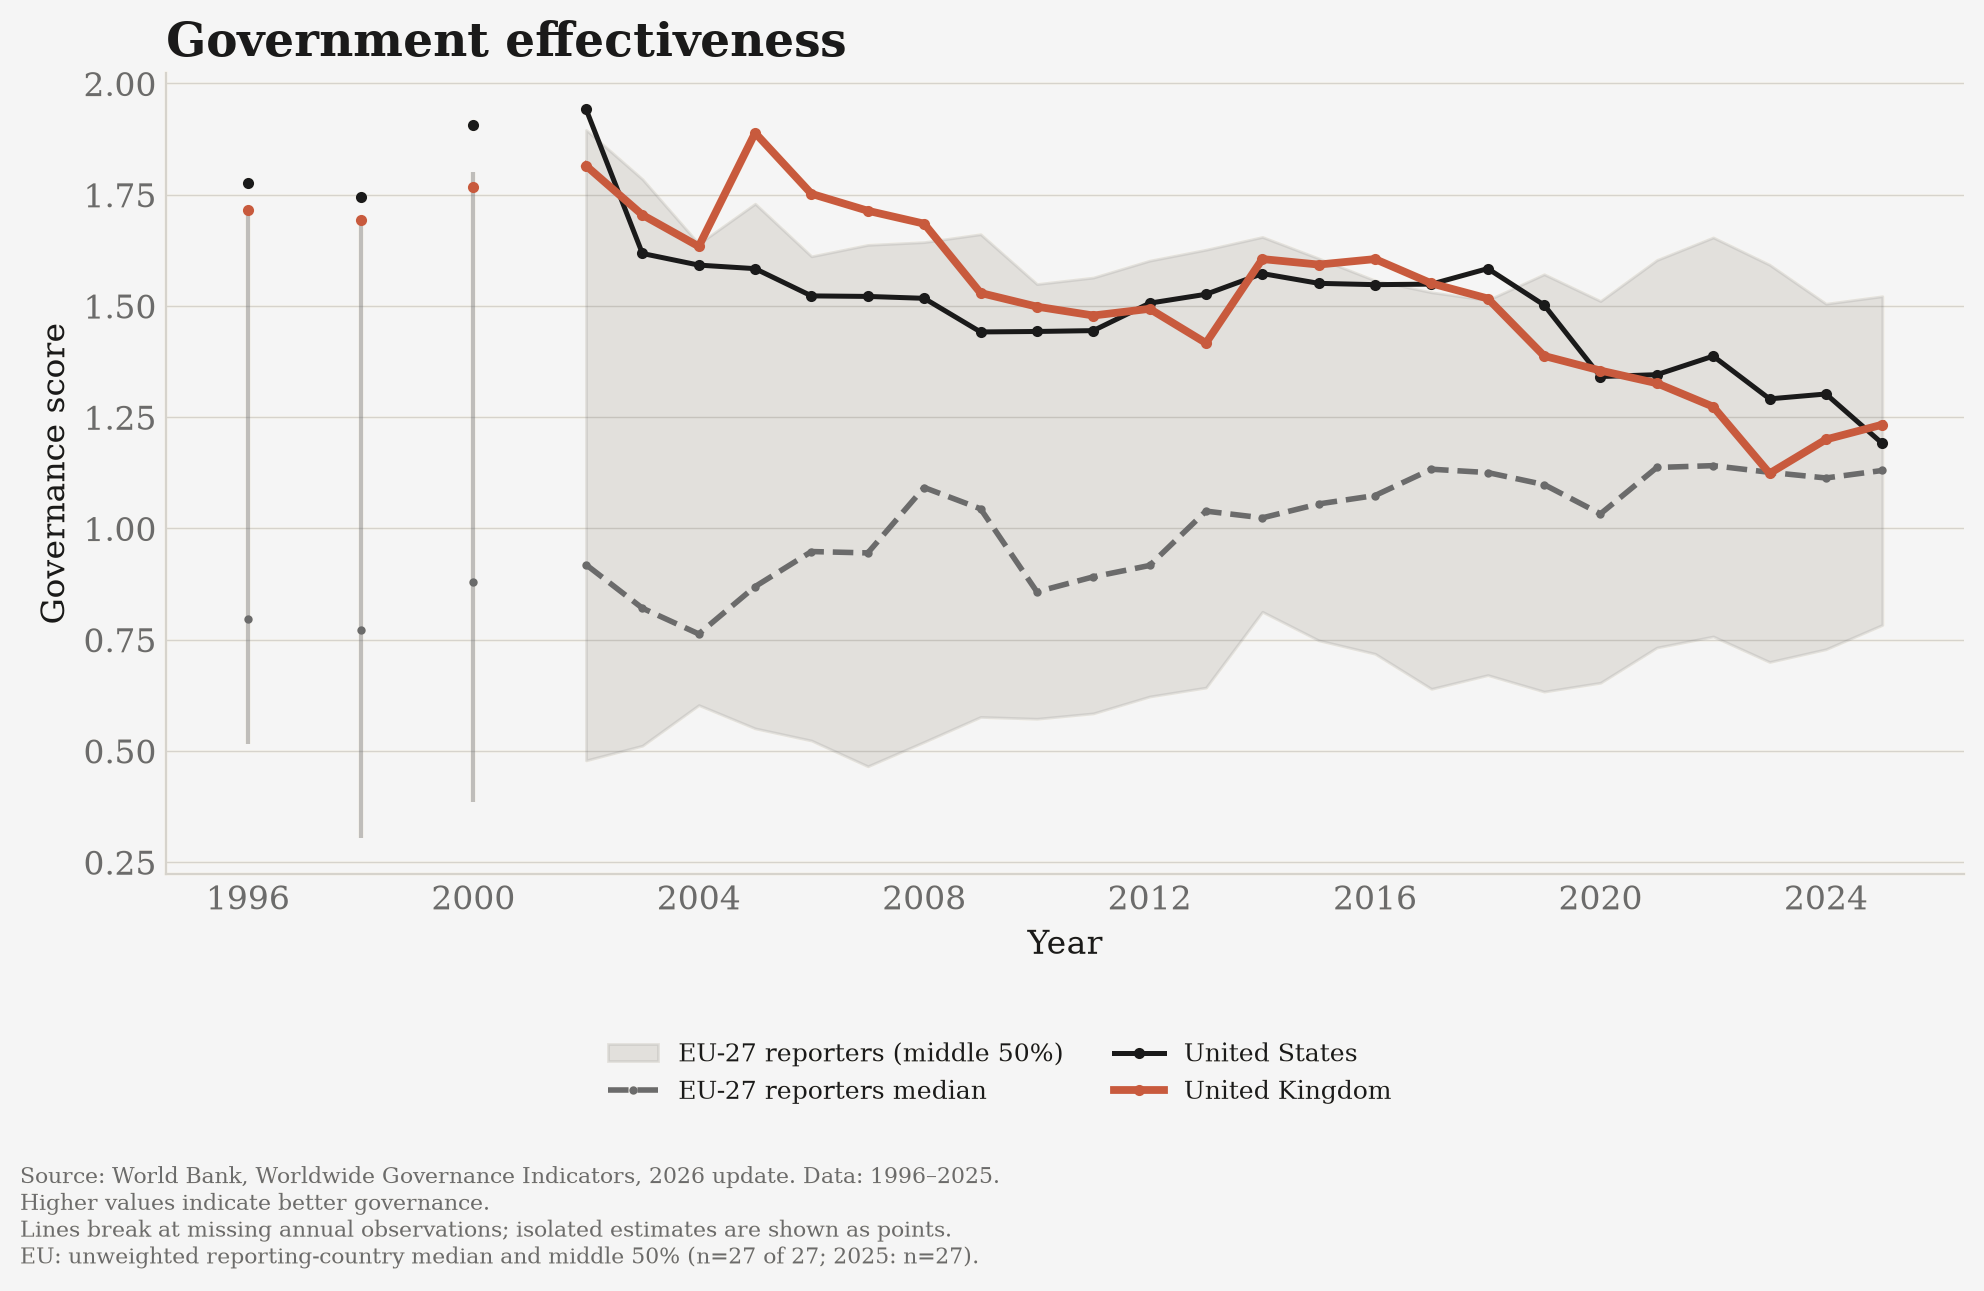
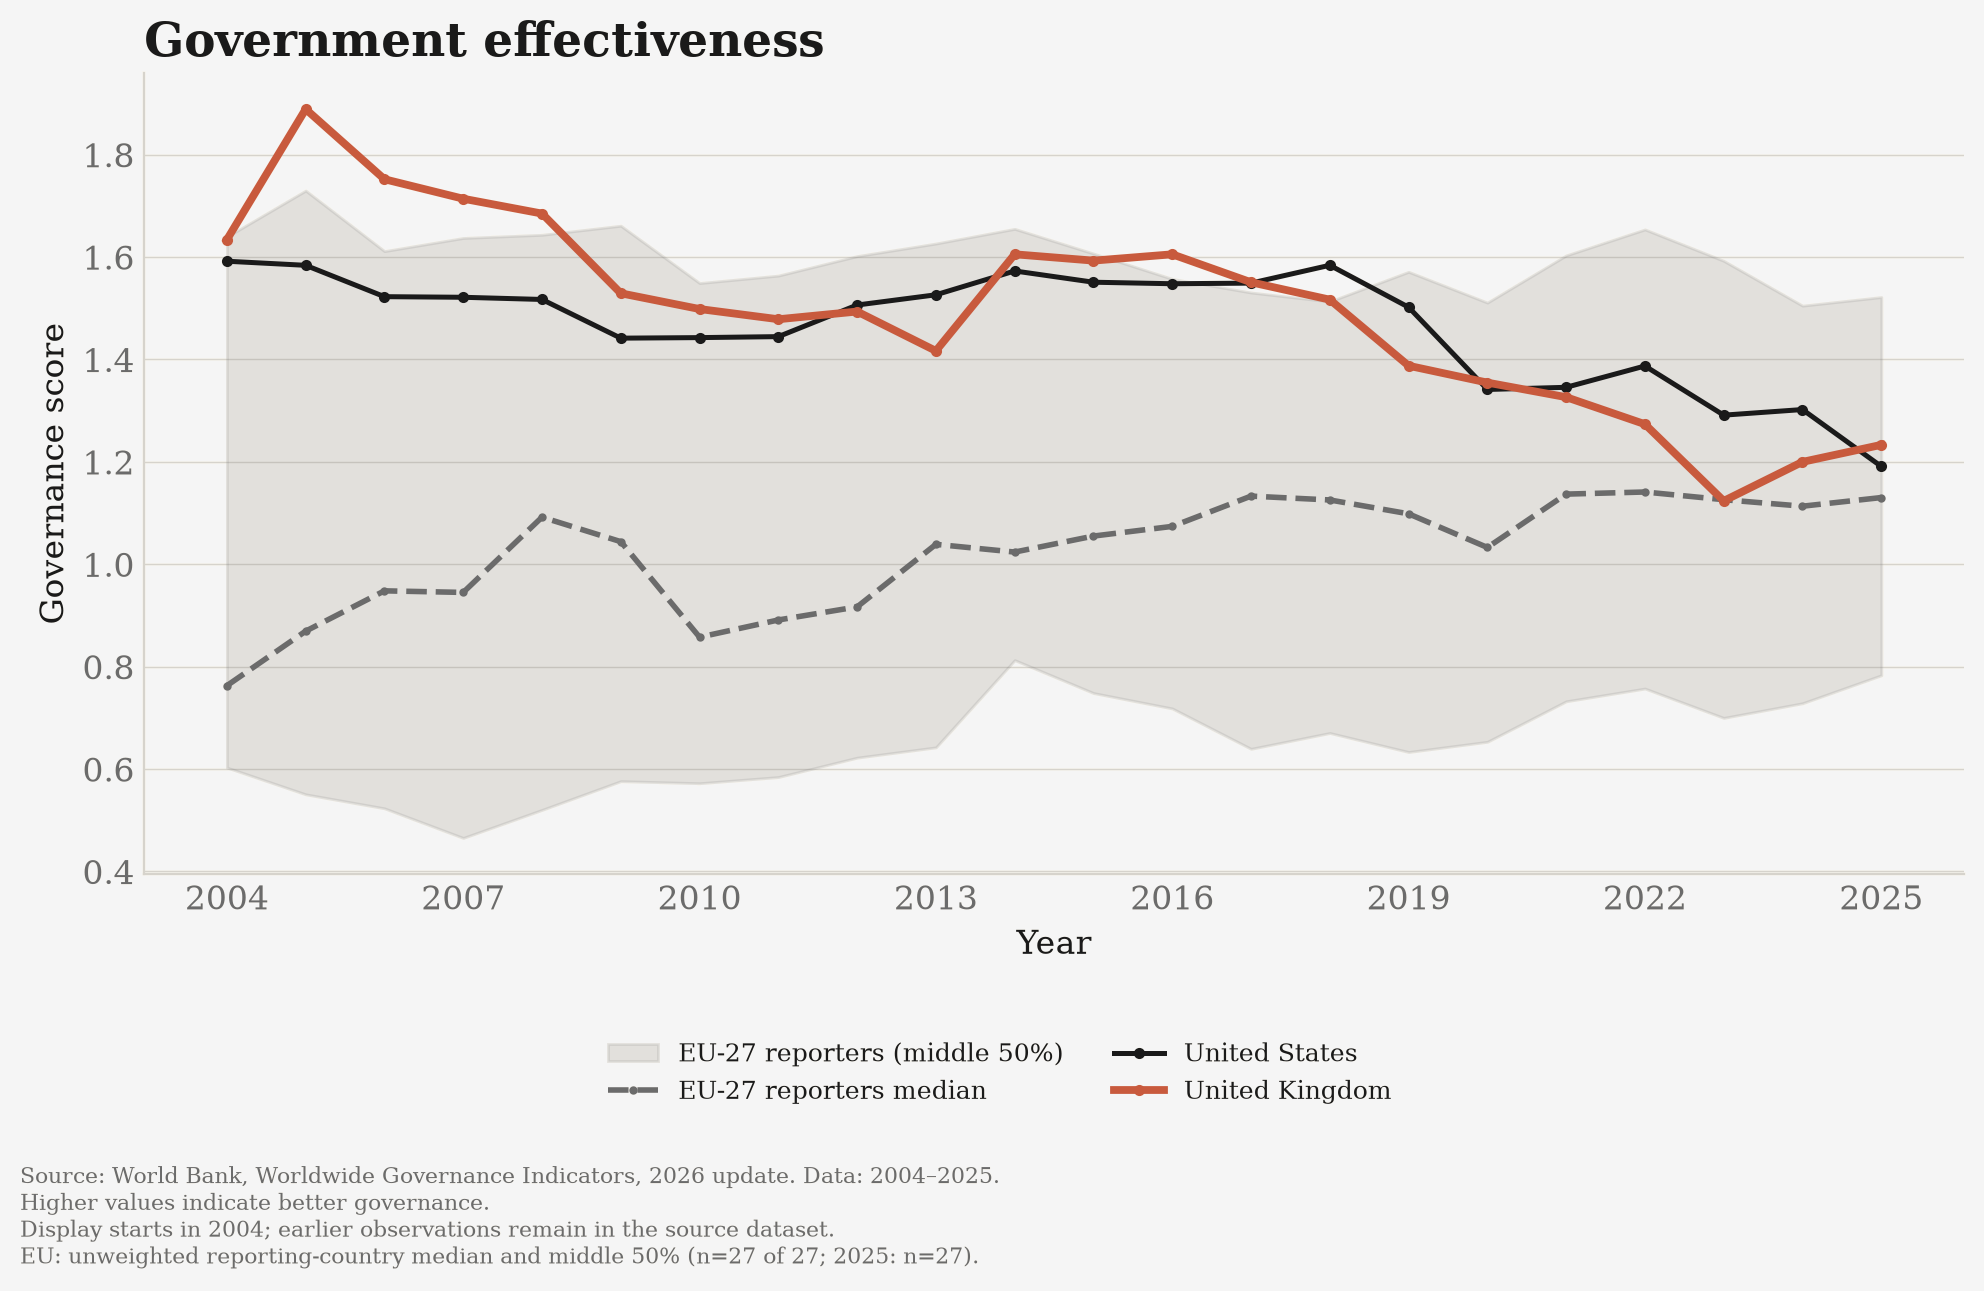
Start the government effectiveness chart in 2004

diff --git a/tests/test_trust.py b/tests/test_trust.py
@@ -55,7 +55,7 @@ def test_governance_missing_years_break_but_pooled_survey_periods_remain_explici
     captured = []
     monkeypatch.setattr(charts, "save_chart", lambda fig, *a, **k: captured.append(fig))
     for metric, years in (
-        ("wgi_government_effectiveness", (1996, 1998, 2000)),
+        ("wgi_rule_of_law", (1996, 1998, 2000)),
         ("trust_national_govt_pct", (2007, 2010, 2013)),
     ):
         rows = [metrics.make_row(iso3, countries.name_for_iso3(iso3), year, metric,
@@ -115,13 +115,13 @@ def test_governance_chart_keeps_plot_wide_and_isolated_eu_ranges_visible(monkeyp
 
     rows = [
         metrics.make_row(iso3, countries.name_for_iso3(iso3), year,
-                         "wgi_government_effectiveness", value, "World Bank WGI")
+                         "wgi_rule_of_law", value, "World Bank WGI")
         for year in (1996, 1998, 2000, 2002, 2003)
         for iso3, value in (("GBR", 1.7), ("USA", 1.8), ("FRA", 0.5), ("DEU", 1.5))
     ]
     captured = []
     monkeypatch.setattr(charts, "save_chart", lambda fig, *a, **k: captured.append(fig))
-    charts.chart_metric(pd.DataFrame(rows), "wgi_government_effectiveness", tmp_path)
+    charts.chart_metric(pd.DataFrame(rows), "wgi_rule_of_law", tmp_path)
     fig = captured[0]
     ax = fig.axes[0]
     assert ax.get_position().width > 0.85
@@ -141,6 +141,30 @@ def test_governance_chart_keeps_plot_wide_and_isolated_eu_ranges_visible(monkeyp
     uk = next(line for line in ax.lines if line.get_label() == "United Kingdom")
     assert np.isnan(uk.get_ydata()).sum() == 3
     assert np.allclose(uk.get_ydata()[~np.isnan(uk.get_ydata())], 1.7)
+
+
+def test_government_effectiveness_display_starts_in_2004_without_removing_source_history(monkeypatch, tmp_path):
+    import pandas as pd
+    from trust_data import charts
+
+    rows = [
+        metrics.make_row(iso3, countries.name_for_iso3(iso3), year,
+                         "wgi_government_effectiveness", year / 2000, "World Bank WGI")
+        for year in (1996, 1998, 2000, 2002, 2003, 2004, 2005)
+        for iso3 in ("GBR", "USA", "FRA")
+    ]
+    source = pd.DataFrame(rows)
+    original = source.copy(deep=True)
+    captured = []
+    monkeypatch.setattr(charts, "save_chart", lambda fig, *a, **k: captured.append(fig))
+    charts.chart_metric(source, "wgi_government_effectiveness", tmp_path)
+    for line in captured[0].axes[0].lines:
+        assert list(line.get_xdata()) == [2004, 2005]
+        assert list(line.get_ydata()) == [2004 / 2000, 2005 / 2000]
+    assert "Data: 2004\u20132005." in captured[0].texts[0].get_text()
+    pd.testing.assert_frame_equal(source, original)
+    assert charts.chart_metric(source[source["year"] < 2004],
+                               "wgi_government_effectiveness", tmp_path) is None
 
 
 def test_oecd_fetch_requests_sdmx_v2(monkeypatch) -> None:

diff --git a/trust_data/charts.py b/trust_data/charts.py
@@ -45,6 +45,10 @@ def chart_metric(df, metric_id: str, out_dir: Path | str = CHART_DIR):
     if sub.empty:
         return None
     sub["year"] = sub["year"].astype(int)
+    if metric_id == "wgi_government_effectiveness":
+        sub = sub[sub["year"] >= 2004]
+        if sub.empty:
+            return None
     sub = sub.sort_values("year")
 
     fig, ax = plt.subplots(figsize=(10, 6.5))
@@ -111,6 +115,8 @@ def chart_metric(df, metric_id: str, out_dir: Path | str = CHART_DIR):
     caption += f"\nHigher values indicate {direction}."
     if meta.family == "survey":
         caption += "\nSurvey values are 2- or 3-year pooled averages, labelled by period end."
+    elif metric_id == "wgi_government_effectiveness":
+        caption += "\nDisplay starts in 2004; earlier observations remain in the source dataset."
     else:
         caption += "\nLines break at missing annual observations; isolated estimates are shown as points."
     if not eu.empty:
